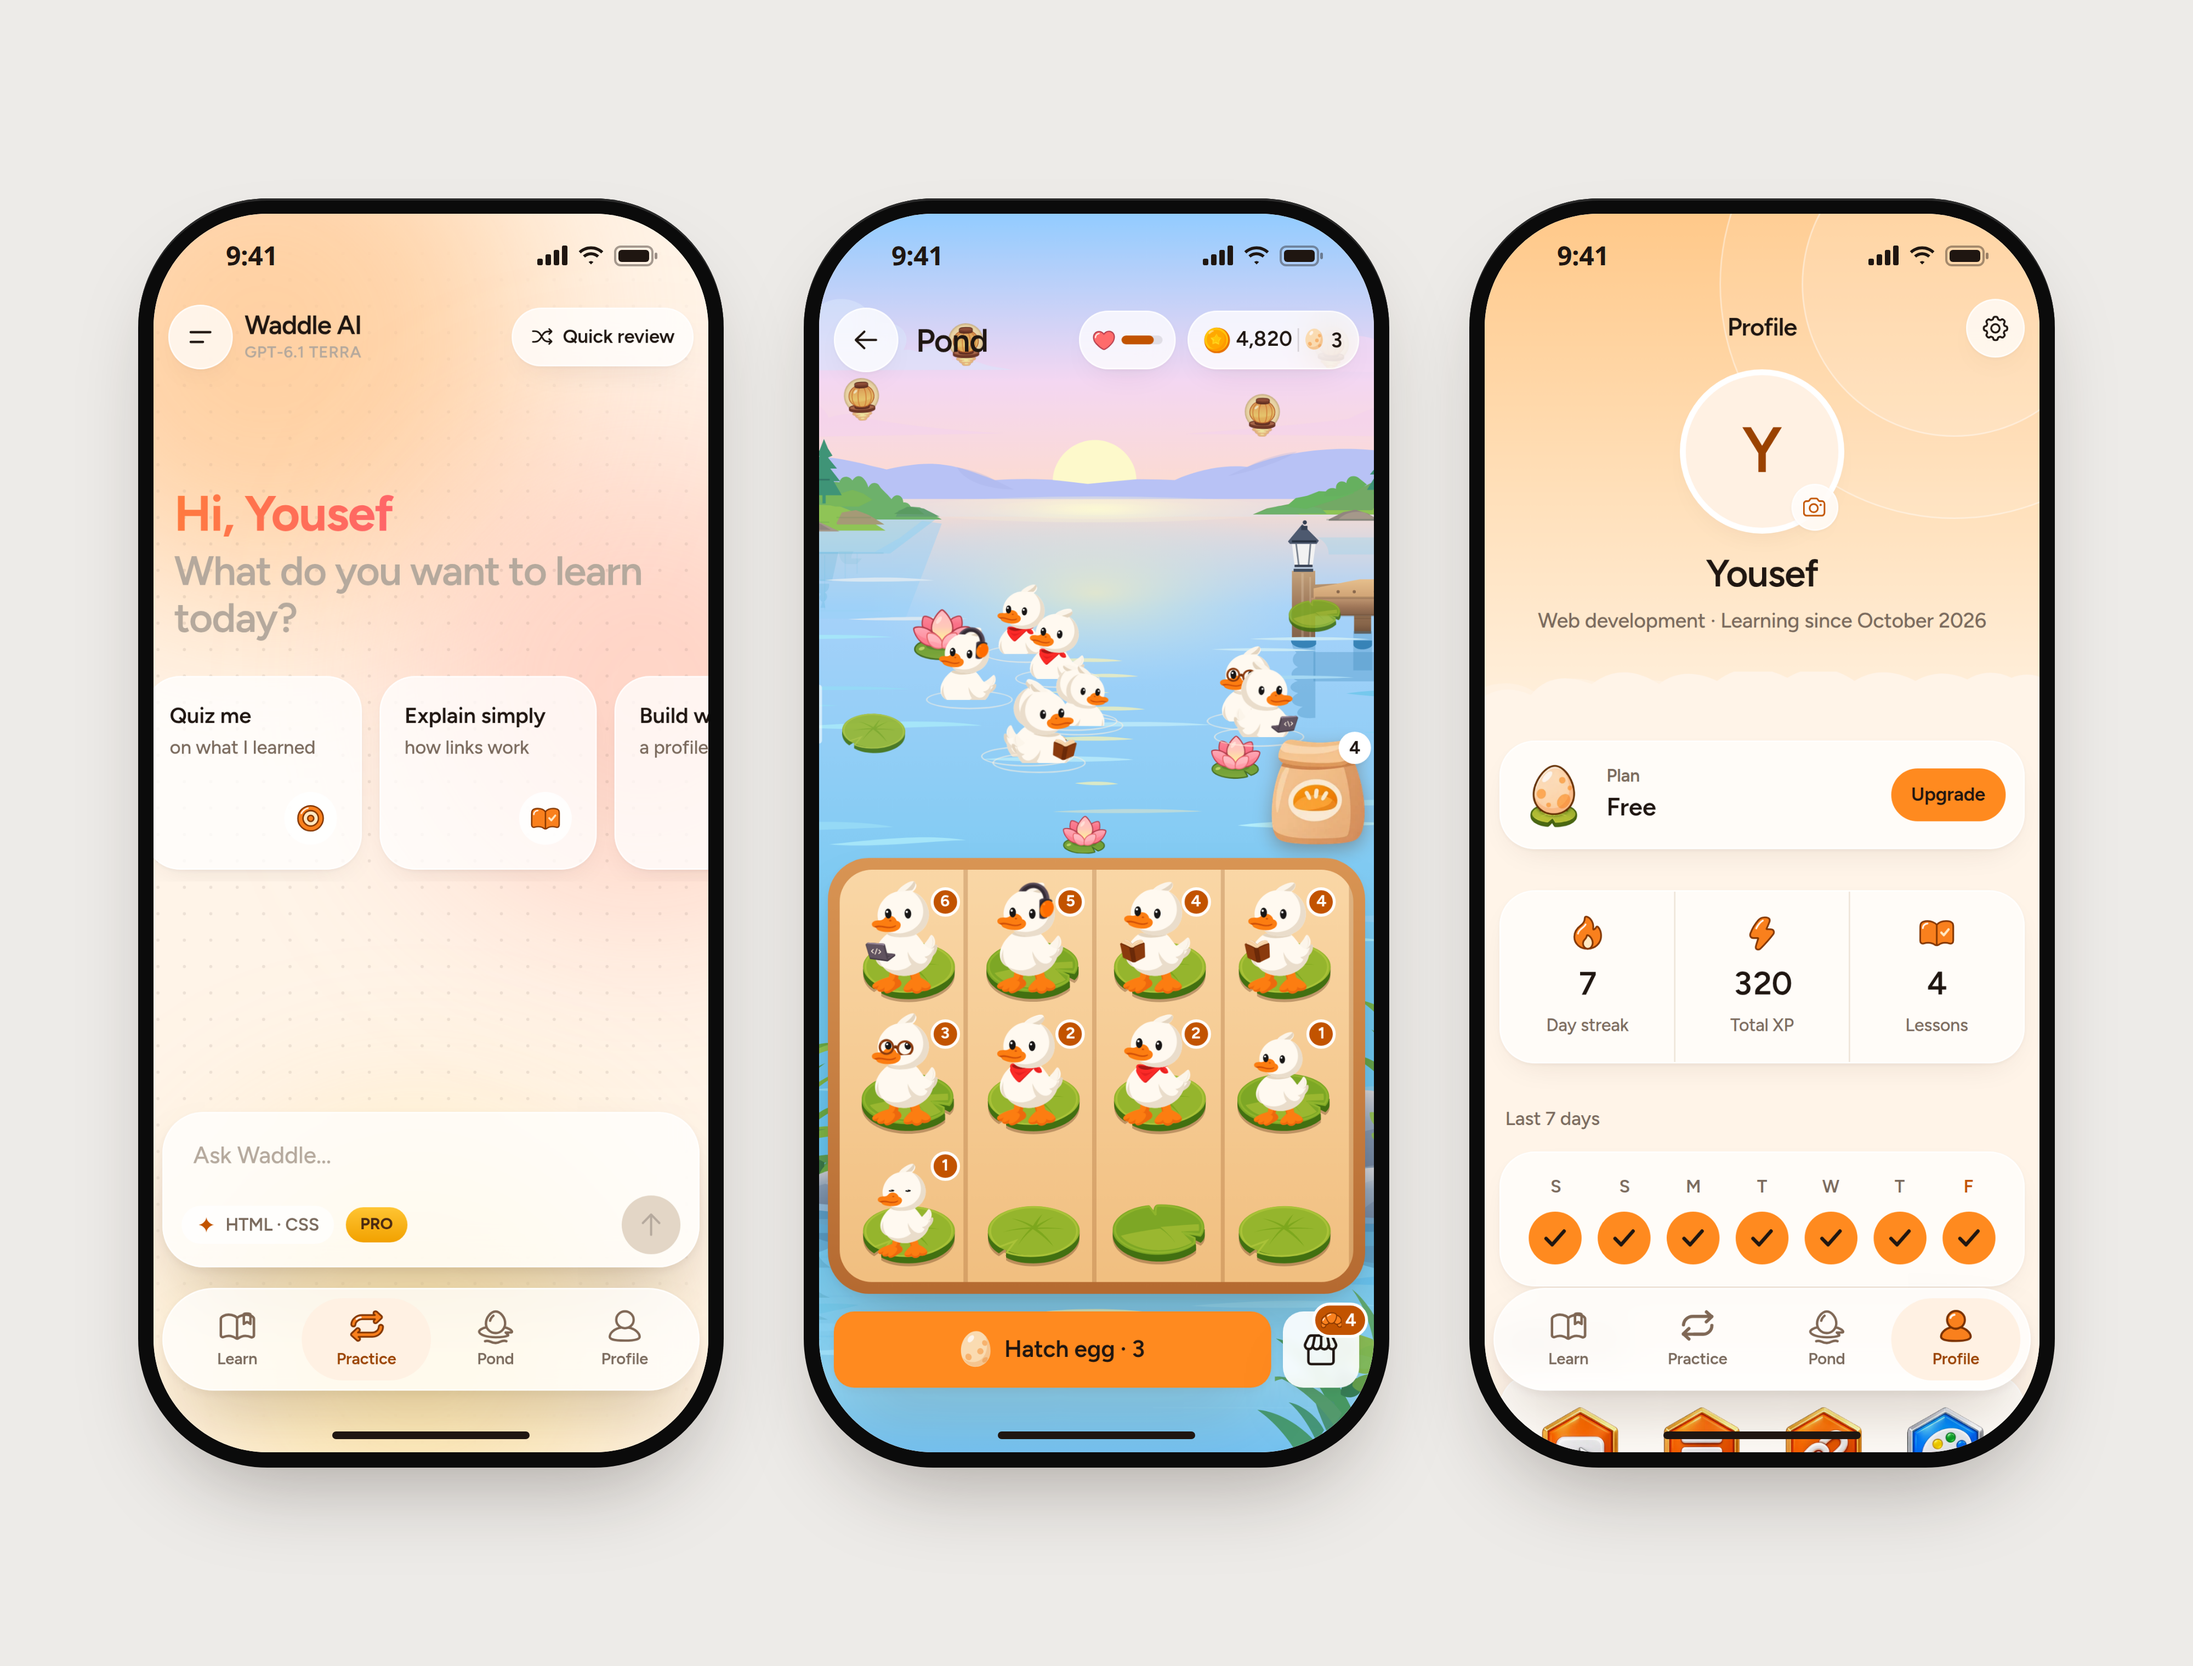
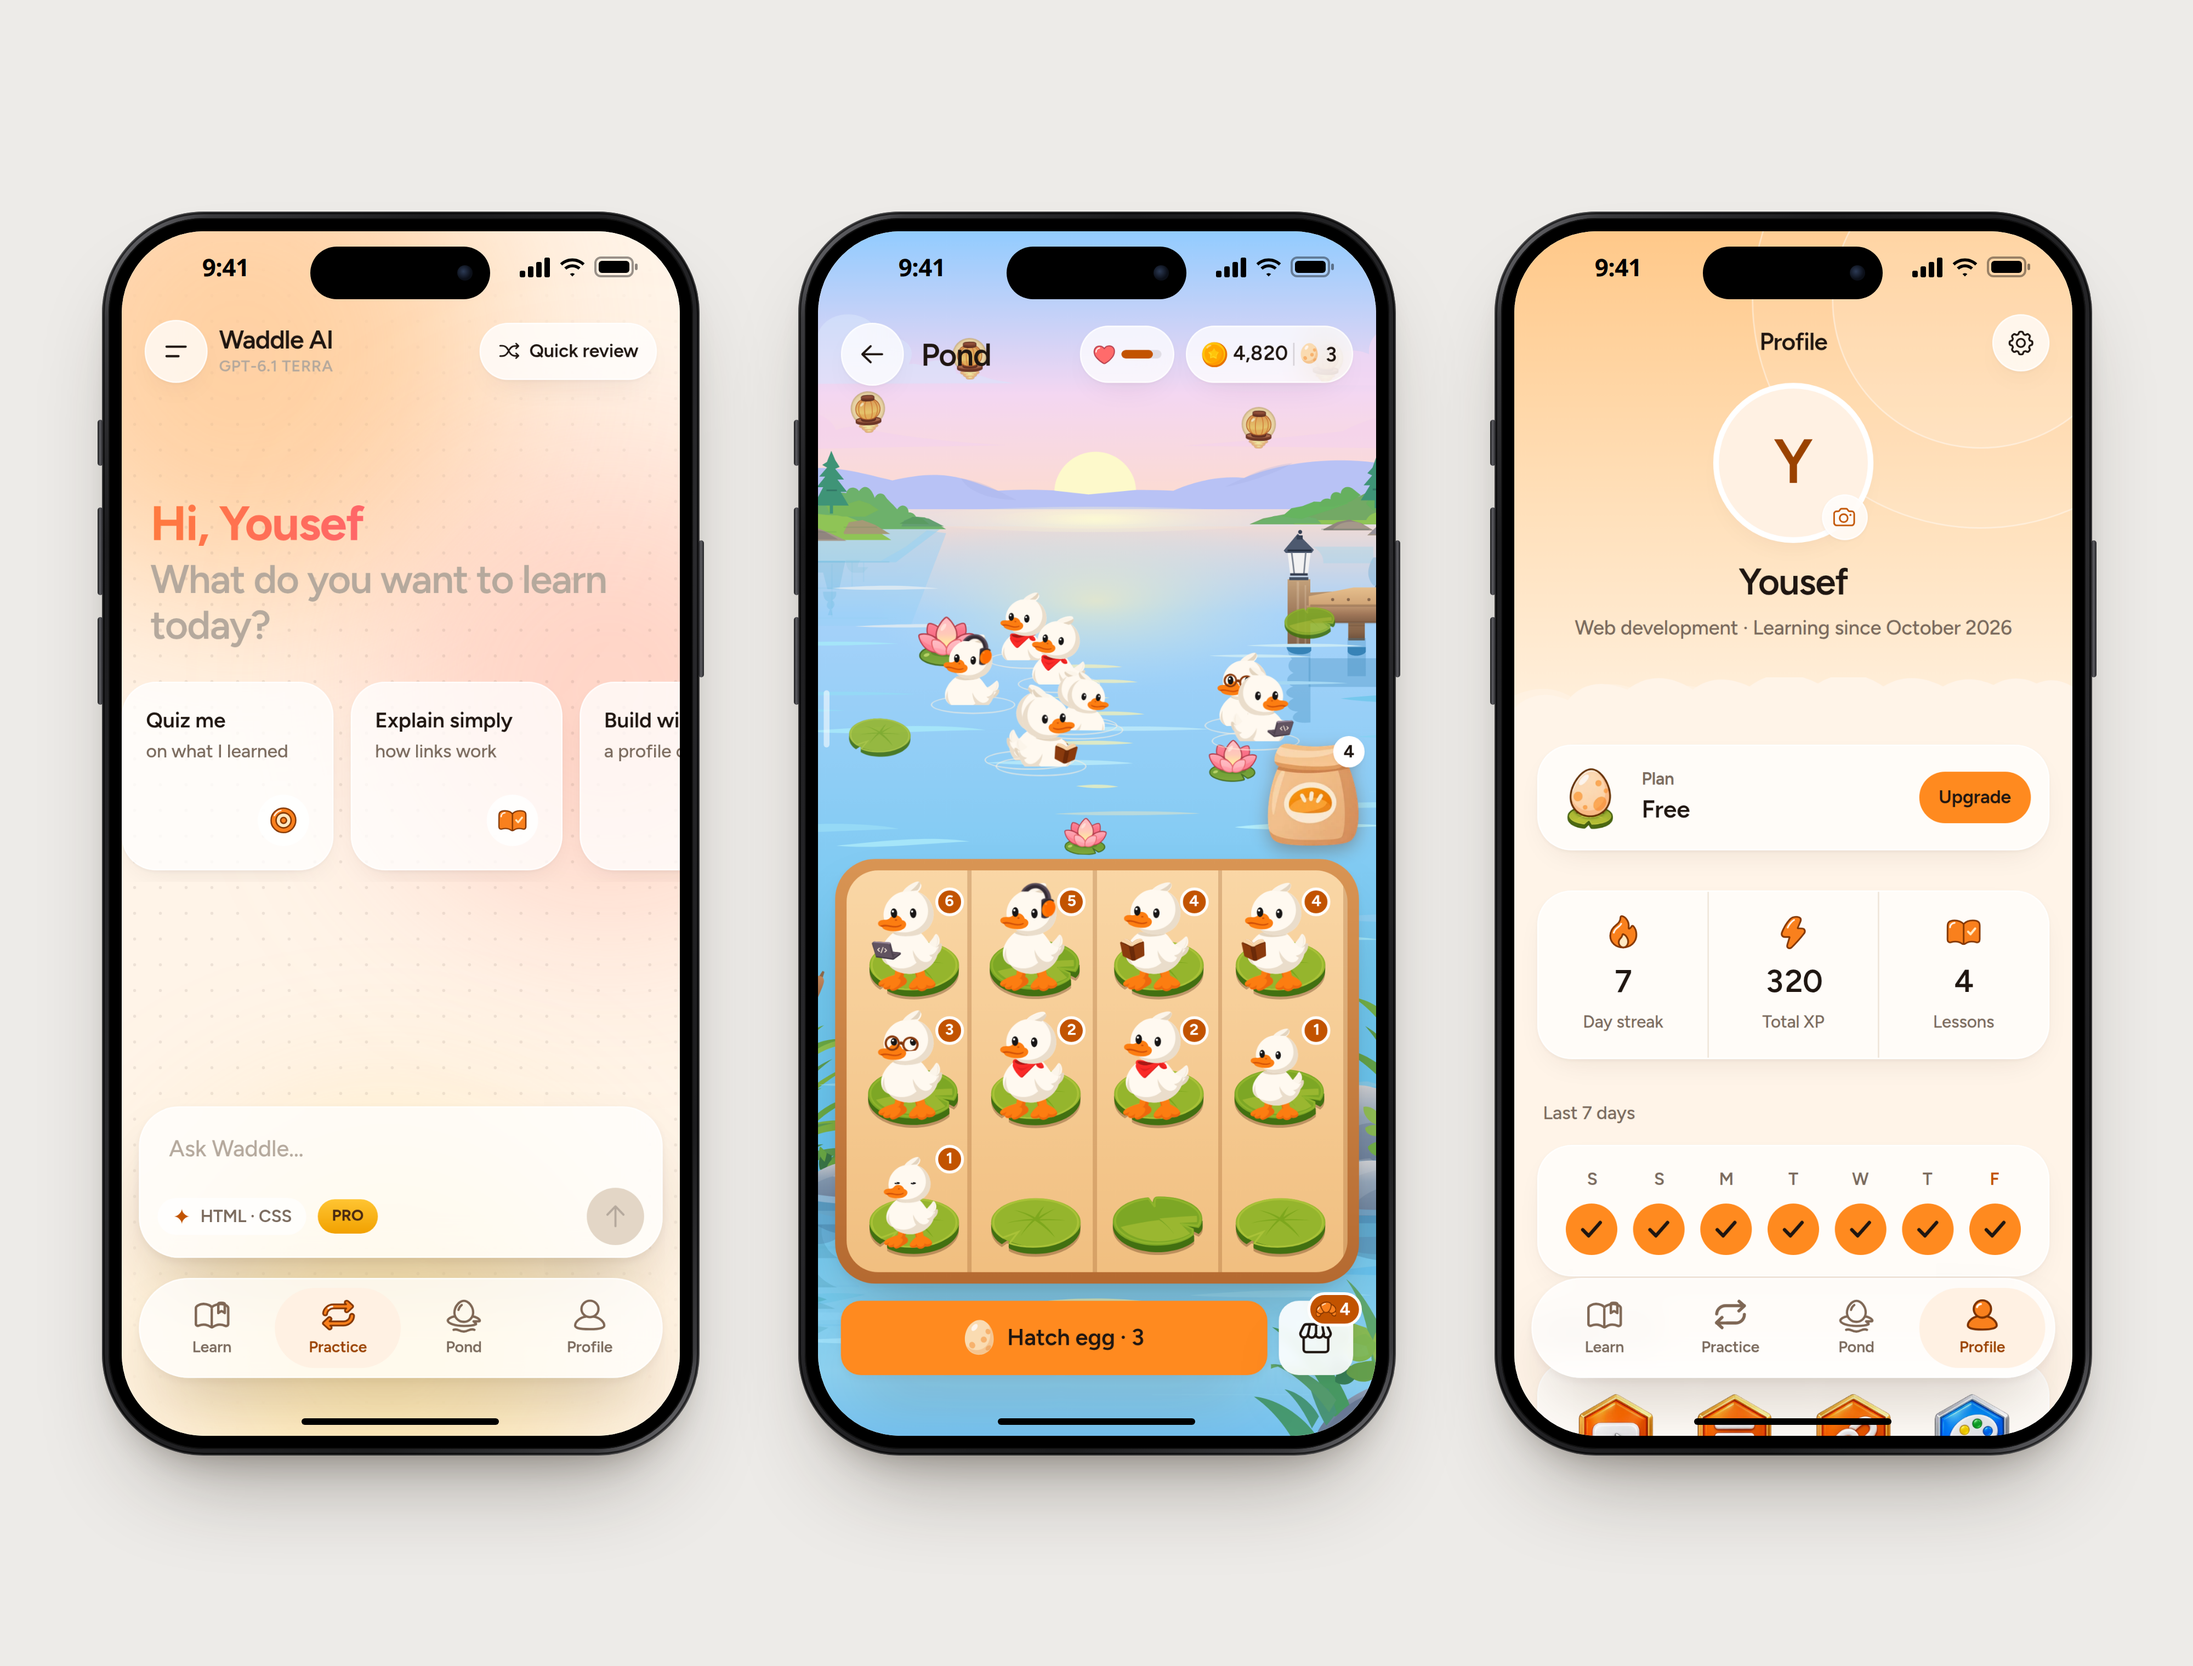
design(mobile): mockups in an iPhone 15 Pro frame with Dynamic Island

Changed region(s): [[0.0312, 0.0938, 0.9688, 0.9062], [0.7812, 0.5312, 0.8438, 0.625]]

diff --git a/mobile/design/mockups/mockup.html b/mobile/design/mockups/mockup.html
@@ -1,17 +1,25 @@
 <!doctype html>
 <html><head><meta charset="utf-8">
 <style>
-  /* Three phones on a soft gray, like a Dribbble shot. ?s=a,b,c picks the screens from raw/. */
+  /* Three iPhones on a soft gray. Sizes follow an iPhone 15 Pro (393x852 pt) at 1.3x: titanium band, thin black bezel, Dynamic Island. ?s=a,b,c picks the screens from raw/. */
   html,body{margin:0}
-  body{width:2000px;height:1520px;background:#EDEBE8;display:flex;justify-content:center;align-items:center;gap:73px;font-family:'SF Pro Display',Inter,system-ui,sans-serif}
-  .phone{position:relative;width:534px;height:1158px;border-radius:118px;background:#0B0B0B;padding:14px;box-sizing:border-box;box-shadow:0 2px 0 #2a2a2a inset,0 40px 80px -30px rgba(40,30,20,.35)}
-  .screen{position:relative;width:100%;height:100%;border-radius:104px;overflow:hidden;background:#FFF8F0}
+  body{width:2000px;height:1520px;background:#EDEBE8;display:flex;justify-content:center;align-items:center;gap:90px;font-family:'SF Pro Display',Inter,system-ui,sans-serif}
+  .phone{position:relative;width:545px;height:1135px;border-radius:93px;padding:6px;box-sizing:border-box;
+    background:linear-gradient(135deg,#8a8a8f 0%,#3a3a3d 6%,#1c1c1e 18%,#2a2a2d 50%,#1c1c1e 82%,#3a3a3d 94%,#8a8a8f 100%);
+    box-shadow:inset 0 0 0 1px rgba(255,255,255,.18),inset 0 0 0 2.5px rgba(0,0,0,.6),0 50px 90px -40px rgba(40,30,20,.45),0 18px 30px -18px rgba(40,30,20,.3)}
+  .bezel{width:100%;height:100%;border-radius:87px;background:#000;padding:12px;box-sizing:border-box;box-shadow:inset 0 0 0 1px #111}
+  .screen{position:relative;width:100%;height:100%;border-radius:75px;overflow:hidden;background:#FFF8F0}
   .screen img{display:block;width:100%;height:100%;object-fit:cover;object-position:top}
-  .bar{position:absolute;top:0;left:0;right:0;height:64px;display:flex;align-items:center;justify-content:space-between;padding:6px 46px 0 66px;color:#1F1611;font-weight:600;font-size:24px;letter-spacing:-.2px}
+  .island{position:absolute;top:14px;left:50%;width:164px;height:48px;border-radius:30px;background:#000;transform:translateX(-50%)}
+  .island::after{content:'';position:absolute;right:16px;top:50%;width:14px;height:14px;border-radius:50%;transform:translateY(-50%);background:radial-gradient(circle at 40% 40%,#2c3a55,#0b0f18 60%)}
+  .bar{position:absolute;top:0;left:0;right:0;height:66px;display:grid;grid-template-columns:1fr 164px 1fr;align-items:center;color:#000;font-weight:600;font-size:22px;letter-spacing:-.3px}
+  .bar>span:first-child{justify-self:center;padding-left:18px}
+  .icons{justify-self:center;display:flex;gap:7px;align-items:center;padding-right:10px}
   .bar.light{color:#fff}
-  .icons{display:flex;gap:8px;align-items:center}
-  .home{position:absolute;bottom:12px;left:50%;width:180px;height:7px;border-radius:9px;background:#1F1611;transform:translateX(-50%)}
+  .home{position:absolute;bottom:10px;left:50%;width:180px;height:6px;border-radius:9px;background:#000;transform:translateX(-50%)}
   .home.light{background:#fff}
+  .btn{position:absolute;width:5px;border-radius:3px;background:linear-gradient(90deg,#1a1a1c,#5d5d62 45%,#232326)}
+  .btn.l{left:-4px}.btn.r{right:-4px}
 </style></head>
 <body>
 <script>
@@ -21,7 +29,7 @@
   const icons = '<svg width="28" height="18" viewBox="0 0 28 18" fill="currentColor"><rect x="0" y="12" width="5" height="6" rx="1.5"/><rect x="7.5" y="8" width="5" height="10" rx="1.5"/><rect x="15" y="4" width="5" height="14" rx="1.5"/><rect x="22.5" y="0" width="5" height="18" rx="1.5"/></svg><svg width="26" height="18" viewBox="0 0 26 18" fill="currentColor"><path d="M13 3.5c3.6 0 6.9 1.4 9.3 3.7l1.9-2C21.3 2.4 17.3.7 13 .7S4.7 2.4 1.8 5.2l1.9 2C6.1 4.9 9.4 3.5 13 3.5zm0 5.4c2.1 0 4 .8 5.5 2.1l1.9-2C18.4 7.2 15.8 6.1 13 6.1S7.6 7.2 5.6 9l1.9 2c1.5-1.3 3.4-2.1 5.5-2.1zm0 5.3c-.8 0-1.6.3-2.2.8L13 17.3l2.2-2.3c-.6-.5-1.4-.8-2.2-.8z"/></svg><svg width="40" height="19" viewBox="0 0 40 19"><rect x="1" y="1" width="34" height="17" rx="5" fill="none" stroke="currentColor" stroke-opacity=".4" stroke-width="2"/><rect x="4" y="4" width="28" height="11" rx="3" fill="currentColor"/><rect x="37" y="6.5" width="2.5" height="6" rx="1.2" fill="currentColor" fill-opacity=".45"/></svg>'
   for (const s of shots) {
     const l = light.includes(s) ? ' light' : ''
-    document.body.insertAdjacentHTML('beforeend', `<div class="phone"><div class="screen"><img src="raw/${s}.png"><div class="bar${l}"><span>9:41</span><span class="icons">${icons}</span></div><div class="home${l}"></div></div></div>`)
+    document.body.insertAdjacentHTML('beforeend', `<div class="phone"><i class="btn l" style="top:190px;height:42px"></i><i class="btn l" style="top:270px;height:80px"></i><i class="btn l" style="top:370px;height:80px"></i><i class="btn r" style="top:300px;height:125px"></i><div class="bezel"><div class="screen"><img src="raw/${s}.png"><div class="island"></div><div class="bar${l}"><span>9:41</span><span></span><span class="icons">${icons}</span></div><div class="home${l}"></div></div></div></div>`)
   }
 </script>
 </body></html>
